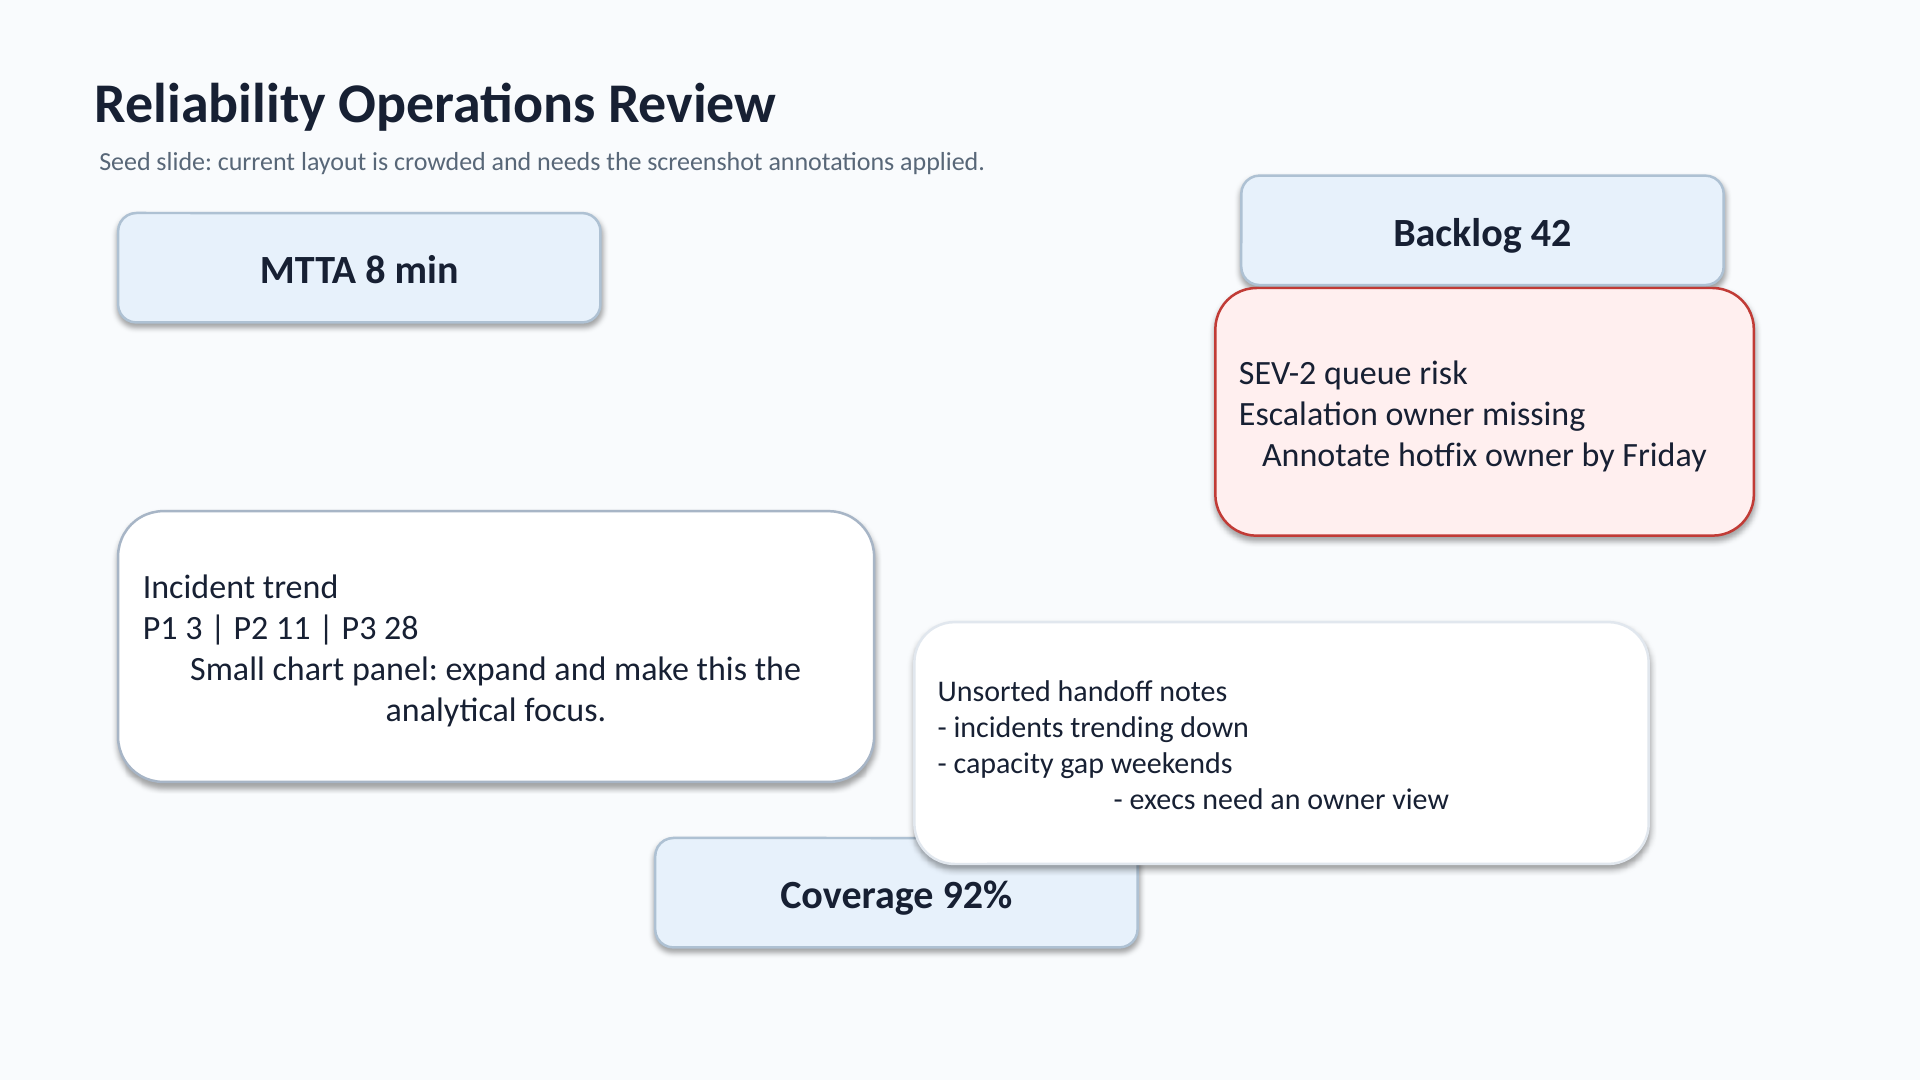
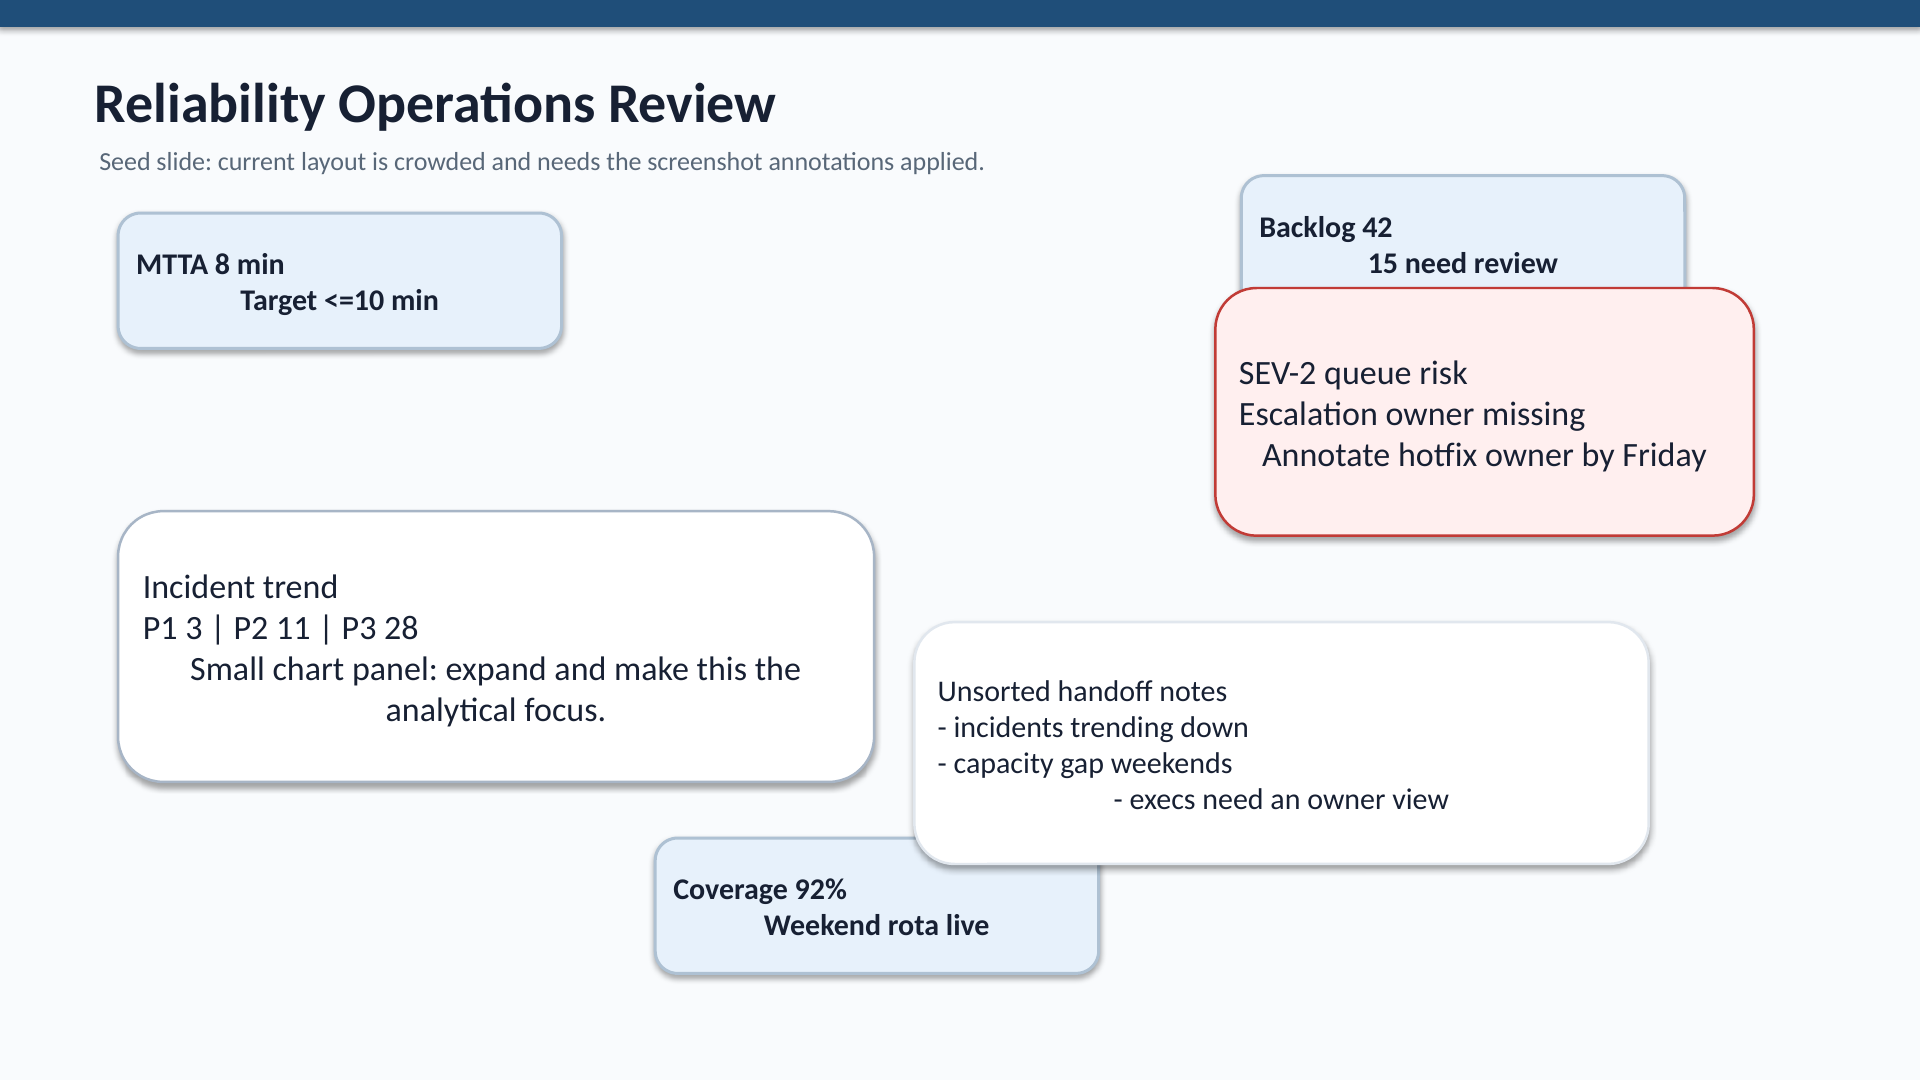
Improve incident response gold slide visuals

diff --git a/poc/tasks/incident_response_annotated_deck/generate_artifacts.py b/poc/tasks/incident_response_annotated_deck/generate_artifacts.py
@@ -27,6 +27,8 @@ RED = RGBColor(193, 59, 54)
 WHITE = RGBColor(255, 255, 255)
 OFF_WHITE = RGBColor(249, 251, 253)
 LIGHT_GRAY = RGBColor(225, 231, 238)
+GRID = RGBColor(213, 222, 232)
+DARK_BLUE = RGBColor(25, 73, 119)
 
 
 def ensure_dirs() -> None:
@@ -74,8 +76,21 @@ def add_text(slide, text, x, y, w, h, *, size=18, color=NAVY, bold=False, fill=N
 
 
 def add_metric(slide, text, x, y, *, fill=PALE_BLUE):
-    shape = add_text(slide, text, x, y, 3.35, 0.76, size=20, bold=True, fill=fill, line=RGBColor(174, 193, 211), name=text)
+    shape = add_text(slide, text, x, y, 3.08, 0.94, size=15, bold=True, fill=fill, line=RGBColor(174, 193, 211), name=text)
+    shape.line.width = Pt(1.5)
     return shape
+
+
+def add_panel_title(slide, text, x, y, w, *, color=BLUE):
+    return add_text(slide, text, x, y, w, 0.28, size=12, color=color, bold=True)
+
+
+def add_tiny_text(slide, text, x, y, w, h, *, color=STEEL, bold=False):
+    return add_text(slide, text, x, y, w, h, size=10.5, color=color, bold=bold, margin=0.03)
+
+
+def add_status_pill(slide, text, x, y, w, *, fill=MINT, line=RGBColor(111, 181, 160), color=NAVY):
+    return add_text(slide, text, x, y, w, 0.34, size=11.5, color=color, bold=True, fill=fill, line=line, margin=0.04)
 
 
 def add_background(slide) -> None:
@@ -161,11 +176,12 @@ def add_audit_slide(slide) -> None:
 
 def add_seed_target_slide(slide) -> None:
     add_background(slide)
+    add_box(slide, 0, 0, 13.33, 0.18, fill=BLUE, line=BLUE, radius=False)
     add_text(slide, "Reliability Operations Review", 0.58, 0.38, 7.0, 0.48, size=28, bold=True)
     add_text(slide, "Seed slide: current layout is crowded and needs the screenshot annotations applied.", 0.61, 0.92, 8.8, 0.35, size=13, color=STEEL)
-    add_metric(slide, "MTTA 8 min", 0.82, 1.48)
-    add_metric(slide, "Backlog 42", 8.62, 1.22)
-    add_metric(slide, "Coverage 92%", 4.55, 5.82)
+    add_metric(slide, "MTTA 8 min\nTarget <=10 min", 0.82, 1.48)
+    add_metric(slide, "Backlog 42\n15 need review", 8.62, 1.22)
+    add_metric(slide, "Coverage 92%\nWeekend rota live", 4.55, 5.82)
     add_text(
         slide,
         "Incident trend\nP1 3 | P2 11 | P3 28\nSmall chart panel: expand and make this the analytical focus.",
@@ -207,40 +223,68 @@ def add_turn1_target_slide(slide, *, final: bool = False) -> None:
     add_background(slide)
     title_size = 32 if final else 28
     title_color = BLUE if final else NAVY
+    add_box(slide, 0, 0, 13.33, 0.20, fill=BLUE, line=BLUE, radius=False)
     add_text(slide, "Reliability Operations Review", 0.58, 0.34, 7.2, 0.52, size=title_size, bold=True, color=title_color, name="slide2_title")
+    add_status_pill(slide, "APRIL SERVICE REVIEW", 10.15, 0.42, 2.28, fill=WHITE, line=RGBColor(190, 203, 218), color=BLUE)
     add_text(slide, "Edited slide: annotated screenshot applied to the target dashboard.", 0.61, 0.92, 8.1, 0.34, size=13, color=STEEL)
-    add_metric(slide, "MTTA 8 min", 0.68, 1.32)
-    add_metric(slide, "Backlog 42", 4.92, 1.32)
-    add_metric(slide, "Coverage 92%", 9.16, 1.32)
-    chart = add_text(
-        slide,
-        "Incident trend\nP1 incidents: 3\nP2 incidents: 11\nP3 incidents: 28",
-        0.72,
-        2.44,
-        7.55,
-        3.1,
-        size=19,
-        fill=WHITE,
-        line=RGBColor(116, 140, 166),
-        name="incident_trend_panel",
-    )
+    add_metric(slide, "MTTA 8 min\nTarget <=10 min\n+2 min buffer", 0.68, 1.30)
+    add_metric(slide, "Backlog 42\n15 need SEV-2 review\nOwner gap", 4.92, 1.30, fill=RGBColor(238, 244, 251))
+    add_metric(slide, "Coverage 92%\nWeekend rota live\nWatch Friday", 9.16, 1.30, fill=RGBColor(233, 247, 240))
+    chart = add_box(slide, 0.72, 2.50, 7.55, 3.22, fill=WHITE, line=RGBColor(116, 140, 166))
+    chart.name = "incident_trend_panel"
     chart.line.width = Pt(2.0)
-    for idx, (label, width, color) in enumerate(
+    add_panel_title(slide, "INCIDENT TREND", 1.02, 2.72, 2.4)
+    add_tiny_text(slide, "Severity mix, last 7 days", 1.04, 3.06, 2.3, 0.22, color=STEEL)
+    add_text(
+        slide,
+        "P1 incidents: 3\nP2 incidents: 11\nP3 incidents: 28",
+        1.00,
+        3.50,
+        1.72,
+        0.88,
+        size=11.5,
+        color=NAVY,
+        fill=RGBColor(247, 250, 253),
+        line=LIGHT_GRAY,
+        margin=0.05,
+    )
+    add_text(
+        slide,
+        "Trend down 18% WoW\nDriver: owner cleanup",
+        5.55,
+        2.94,
+        2.16,
+        0.58,
+        size=11,
+        color=DARK_BLUE,
+        bold=True,
+        fill=PALE_BLUE,
+        line=RGBColor(174, 193, 211),
+        margin=0.05,
+    )
+    add_tiny_text(slide, "Count", 2.78, 3.50, 0.55, 0.22, bold=True)
+    for tick_idx, tick in enumerate(["0", "10", "20", "30"]):
+        x = 3.26 + tick_idx * 1.16
+        add_box(slide, x, 3.78, 0.01, 1.34, fill=GRID, line=GRID, radius=False)
+        add_tiny_text(slide, tick, x - 0.07, 5.18, 0.30, 0.16)
+    for idx, (label, value, width, color) in enumerate(
         [
-            ("P1", 0.72, RGBColor(91, 141, 203)),
-            ("P2", 1.72, RGBColor(68, 124, 185)),
-            ("P3", 3.36, BLUE),
+            ("P1", 3, 0.35, RGBColor(119, 166, 210)),
+            ("P2", 11, 1.28, RGBColor(67, 125, 183)),
+            ("P3", 28, 3.25, BLUE),
         ]
     ):
-        y = 4.56 + idx * 0.28
-        add_box(slide, 3.42, y, width, 0.15, fill=color, line=color, radius=False)
-        add_text(slide, label, 2.92, y - 0.08, 0.35, 0.22, size=9, color=STEEL)
+        y = 3.90 + idx * 0.46
+        add_tiny_text(slide, f"{label}", 2.66, y - 0.02, 0.34, 0.20, bold=True)
+        add_box(slide, 3.26, y, width, 0.22, fill=color, line=color, radius=False)
+        add_tiny_text(slide, str(value), 3.26 + width + 0.10, y - 0.01, 0.42, 0.20, color=NAVY, bold=True)
+    add_tiny_text(slide, "Visual target: expanded from seed into the annotated left-middle analysis region.", 1.02, 5.48, 6.72, 0.22)
     if final:
         add_text(
             slide,
             "Caption: queue risk is concentrated in SEV-2 ownership gaps.",
             0.82,
-            5.72,
+            5.86,
             7.3,
             0.42,
             size=15,
@@ -249,28 +293,44 @@ def add_turn1_target_slide(slide, *, final: bool = False) -> None:
         )
         add_text(
             slide,
-            "Action owners\nSRE: Priya\nSupport: Marcus\nComms: Lina",
+            "Action owners\nSRE: Priya\nSupport: Marcus\nComms: Lina\nNext checkpoint: Friday 16:00",
             8.86,
-            2.54,
+            2.52,
             3.58,
-            1.82,
-            size=17,
+            1.96,
+            size=15,
             fill=MINT,
             line=RGBColor(111, 181, 160),
             name="action_owners",
+        )
+        add_status_pill(slide, "EXEC HANDOFF READY", 9.06, 4.18, 2.18, fill=WHITE, line=RGBColor(111, 181, 160), color=RGBColor(33, 125, 103))
+    else:
+        add_text(
+            slide,
+            "Turn 1 layout fixes\nMetric row aligned\nRisk moved to lower-right\nNon-target slides preserved",
+            8.86,
+            2.52,
+            3.58,
+            1.78,
+            size=15,
+            fill=MINT,
+            line=RGBColor(111, 181, 160),
+            name="turn1_layout_fixes",
         )
     add_text(
         slide,
         "SEV-2 queue risk\nEscalation owner missing\nAnnotate hotfix owner by Friday",
         8.86,
-        5.08,
+        5.02,
         3.58,
-        1.42,
-        size=17,
+        1.50,
+        size=15,
         fill=RGBColor(255, 239, 239),
         line=RED,
         name="sev2_queue_risk",
     )
+    add_status_pill(slide, "Protected slides unchanged", 0.72, 6.72, 2.26, fill=WHITE, line=LIGHT_GRAY, color=STEEL)
+    add_tiny_text(slide, "Generated gold reference for CUIF annotated-screenshot edit task", 3.14, 6.78, 4.6, 0.18)
 
 
 def build_deck(stage: str) -> Presentation: